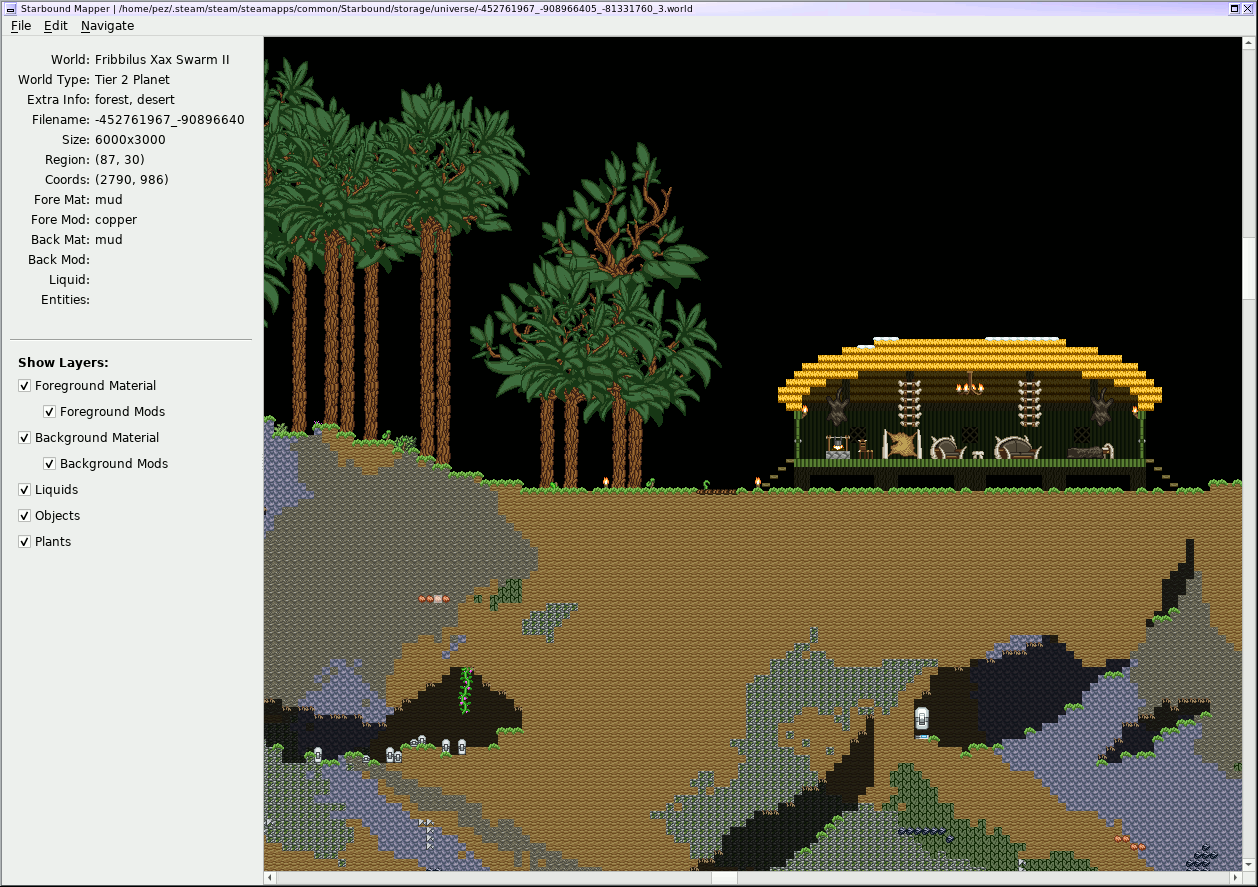
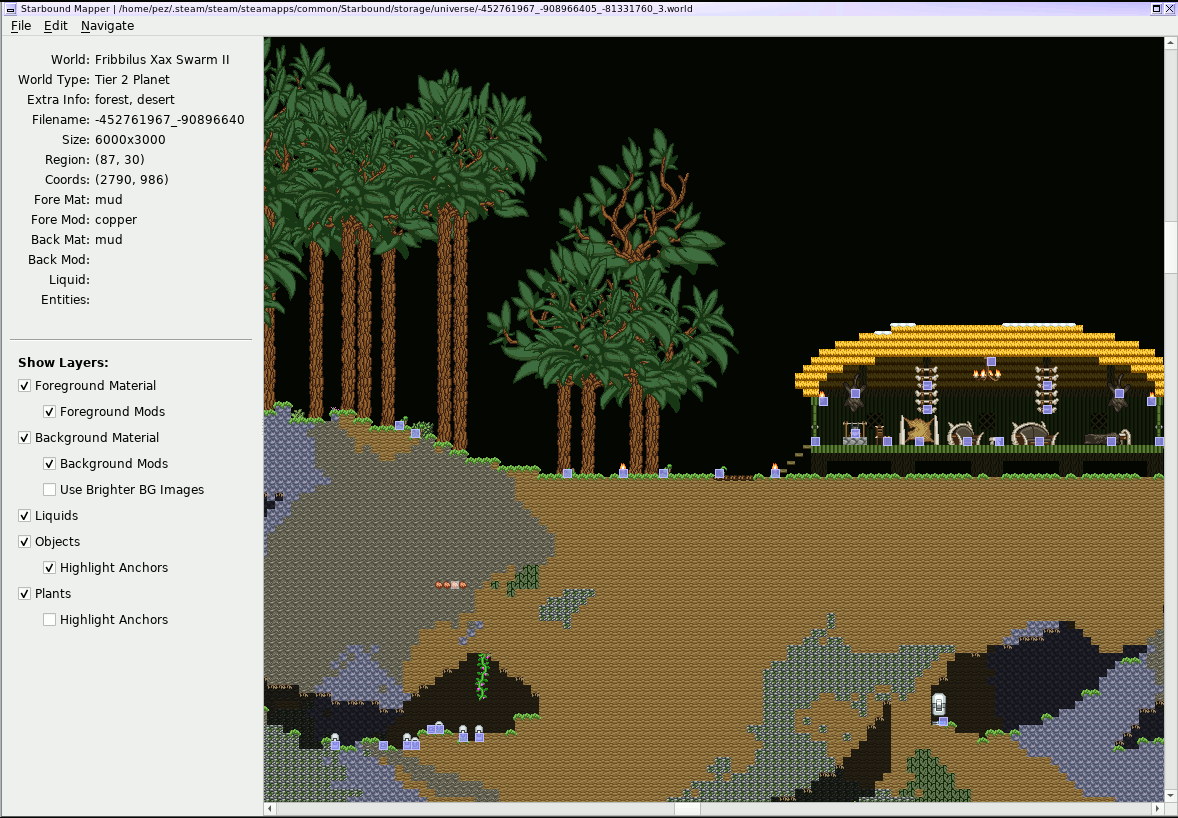
Highlight object/plant anchor points

diff --git a/pystarboundmap/gui.py b/pystarboundmap/gui.py
@@ -168,8 +168,19 @@ class GUITile(QtWidgets.QGraphicsRectItem):
     Hoverable area which the user can click on for info, etc.
     """
 
+    (BRUSH_NONE,
+        BRUSH_NORMAL,
+        BRUSH_PLANT,
+        BRUSH_OBJECT,
+        BRUSH_HOVER) = range(5)
+
     def __init__(self, parent, tile, x, y, region, gui_x, gui_y, layer_toggles):
         super().__init__()
+        self.hovered = False
+        self.highlight_objects = layer_toggles.object_anchors_toggle.isChecked()
+        self.highlight_plants = layer_toggles.plant_anchors_toggle.isChecked()
+        self.plants = []
+        self.objects = []
         self.parent = parent
         self.tile = tile
         self.x = x
@@ -178,13 +189,11 @@ class GUITile(QtWidgets.QGraphicsRectItem):
         self.gui_x = gui_x
         self.gui_y = gui_y
         self.setAcceptHoverEvents(True)
-        self.setBrush(QtGui.QBrush(QtGui.QColor(0, 0, 0, 0)))
-        self.setPen(QtGui.QPen(QtGui.QColor(0, 0, 0, 0)))
+        self.last_brush = GUITile.BRUSH_NONE
+        self.set_default_brush()
         self.setRect(0, 0, 8, 8)
         self.setPos(gui_x, gui_y)
         self.setZValue(Constants.z_overlay)
-        self.plants = []
-        self.objects = []
 
         # Convenience vars
         materials = self.parent.data.materials
@@ -279,6 +288,8 @@ class GUITile(QtWidgets.QGraphicsRectItem):
         objects
         """
         self.plants.append((desc, obj_list))
+        if len(self.plants) == 1:
+            self.set_default_brush()
 
     def add_object(self, obj_data, obj_name, obj_orientation, qpmi, entity):
         """
@@ -286,6 +297,8 @@ class GUITile(QtWidgets.QGraphicsRectItem):
         and QGraphicsPixmapItem
         """
         self.objects.append((obj_data, obj_name, obj_orientation, qpmi, entity))
+        if len(self.objects) == 1:
+            self.set_default_brush()
 
     def hoverEnterEvent(self, event=None):
         data_table = self.parent.mainwindow.data_table
@@ -293,6 +306,7 @@ class GUITile(QtWidgets.QGraphicsRectItem):
         matmods = self.parent.data.matmods
         liquids = self.parent.data.liquids
         self.parent.cur_hover = self
+        self.hovered = True
 
         data_table.set_region(self.region.rx, self.region.ry)
         data_table.set_tile(self.x, self.y)
@@ -356,12 +370,13 @@ class GUITile(QtWidgets.QGraphicsRectItem):
 
         # TODO: Might want to pre-brighten our images and swap 'em out.  Or
         # at least do so for objects, so we could highlight the whole thing.
+        self.last_brush = GUITile.BRUSH_HOVER
         self.setBrush(QtGui.QBrush(QtGui.QColor(255, 255, 255, 128)))
         self.setPen(QtGui.QPen(QtGui.QColor(0, 0, 0, 0)))
 
     def hoverLeaveEvent(self, event=None):
-        self.setBrush(QtGui.QBrush(QtGui.QColor(0, 0, 0, 0)))
-        self.setPen(QtGui.QPen(QtGui.QColor(0, 0, 0, 0)))
+        self.hovered = False
+        self.set_default_brush()
 
         # Restore object images
         for (obj_data, obj_name, obj_orientation, qpmi, _) in self.objects:
@@ -405,9 +420,40 @@ class GUITile(QtWidgets.QGraphicsRectItem):
                 image = self.parent.data.matmods[self.tile.background_mod].bgimage
             self.mod_background.setPixmap(image)
 
+    def set_default_brush(self):
+        """
+        Sets our default (non-hovered) brush/pen state.  Changing this is
+        expensive, which is why we're keeping track of the brush state with
+        `last_brush` rather than blindly updating.
+        """
+        if not self.hovered:
+            if self.highlight_objects and len(self.objects) > 0:
+                if self.last_brush != GUITile.BRUSH_OBJECT:
+                    self.setBrush(QtGui.QBrush(QtGui.QColor(150, 150, 255, 200)))
+                    self.setPen(QtGui.QPen(QtGui.QColor(190, 190, 255, 255)))
+                    self.last_brush = GUITile.BRUSH_OBJECT
+            elif self.highlight_plants and len(self.plants) > 0:
+                if self.last_brush != GUITile.BRUSH_PLANT:
+                    self.setBrush(QtGui.QBrush(QtGui.QColor(150, 255, 150, 200)))
+                    self.setPen(QtGui.QPen(QtGui.QColor(190, 255, 190, 255)))
+                    self.last_brush = GUITile.BRUSH_PLANT
+            else:
+                if self.last_brush != GUITile.BRUSH_NORMAL:
+                    self.setBrush(QtGui.QBrush(QtGui.QColor(0, 0, 0, 0)))
+                    self.setPen(QtGui.QPen(QtGui.QColor(0, 0, 0, 0)))
+                    self.last_brush = GUITile.BRUSH_NORMAL
+
     def toggle_liquids(self, checked):
         if self.liquid:
             self.liquid.setVisible(checked)
+
+    def toggle_object_anchors(self, checked):
+        self.highlight_objects = checked
+        self.set_default_brush()
+
+    def toggle_plant_anchors(self, checked):
+        self.highlight_plants = checked
+        self.set_default_brush()
 
 class GUIRegion(object):
     """
@@ -616,12 +662,26 @@ class GUIRegion(object):
         for obj in self.objects:
             obj.setVisible(checked)
 
+    def toggle_object_anchors(self, checked):
+        """
+        Toggle object anchors
+        """
+        for tile in self.tiles:
+            tile.toggle_object_anchors(checked)
+
     def toggle_plants(self, checked):
         """
         Toggle plants
         """
         for plant in self.plants:
             plant.setVisible(checked)
+
+    def toggle_plant_anchors(self, checked):
+        """
+        Toggle plant anchors
+        """
+        for tile in self.tiles:
+            tile.toggle_plant_anchors(checked)
 
 class TileInfoDialog(QtWidgets.QDialog):
     """
@@ -1166,12 +1226,26 @@ class MapScene(QtWidgets.QGraphicsScene):
         for region in self.loaded_regions:
             self.regions[region].toggle_objects(checked)
 
+    def toggle_object_anchors(self, checked):
+        """
+        Toggle object anchors
+        """
+        for region in self.loaded_regions:
+            self.regions[region].toggle_object_anchors(checked)
+
     def toggle_plants(self, checked):
         """
         Toggle plants
         """
         for region in self.loaded_regions:
             self.regions[region].toggle_plants(checked)
+
+    def toggle_plant_anchors(self, checked):
+        """
+        Toggle plant anchors
+        """
+        for region in self.loaded_regions:
+            self.regions[region].toggle_plant_anchors(checked)
 
 class MapArea(QtWidgets.QGraphicsView):
     """
@@ -1324,10 +1398,20 @@ class LayerToggles(QtWidgets.QWidget):
                 self.maingui.scene.toggle_liquids,
                 )
         self.objects_toggle = self.add_row('Objects',
-                self.maingui.scene.toggle_objects,
+                self.toggle_objects,
+                )
+        self.object_anchors_toggle = self.add_row('Highlight Anchors',
+                self.maingui.scene.toggle_object_anchors,
+                indent=True,
+                default=False,
                 )
         self.plants_toggle = self.add_row('Plants',
-                self.maingui.scene.toggle_plants,
+                self.toggle_plants,
+                )
+        self.plant_anchors_toggle = self.add_row('Highlight Anchors',
+                self.maingui.scene.toggle_plant_anchors,
+                indent=True,
+                default=False,
                 )
 
     def add_row(self, label_text, callback, indent=False, default=True):
@@ -1376,6 +1460,30 @@ class LayerToggles(QtWidgets.QWidget):
         else:
             self.current_back_mod_val = self.back_mod_toggle.isChecked()
             self.back_mod_toggle.setChecked(False)
+
+    def toggle_objects(self, checked):
+        """
+        Toggles objects
+        """
+        self.maingui.scene.toggle_objects(checked)
+        self.object_anchors_toggle.setEnabled(checked)
+        if checked:
+            self.object_anchors_toggle.setChecked(self.current_object_anchors_val)
+        else:
+            self.current_object_anchors_val = self.object_anchors_toggle.isChecked()
+            self.object_anchors_toggle.setChecked(False)
+
+    def toggle_plants(self, checked):
+        """
+        Toggles plants
+        """
+        self.maingui.scene.toggle_plants(checked)
+        self.plant_anchors_toggle.setEnabled(checked)
+        if checked:
+            self.plant_anchors_toggle.setChecked(self.current_plant_anchors_val)
+        else:
+            self.current_plant_anchors_val = self.plant_anchors_toggle.isChecked()
+            self.plant_anchors_toggle.setChecked(False)
 
 class RegionLoadingNotifier(QtWidgets.QWidget):
     """

diff --git a/README.md b/README.md
@@ -44,15 +44,20 @@ spawn point).  Once on the main screen, the functionality is pretty basic:
 [![Main Window](screenshots/mainwindow.png)](screenshots/mainwindow.png)
 
 The information about the currently-hovered tile will be shown on the lefthand
-side of the screen, which can be resized by dragging on the edge.  To get more
-detail about a tile, click on it to bring up a dialog with the extra details:
+side of the screen, which can be resized by dragging on the edge.  You can
+scroll using the scrollbars or by click-and-drag on the map itself.  The
+various layers can be toggled on/off, so if you wanted to check for holes in
+the background tiles of your home base, or something, that may be useful.
+There are also toggles to draw the background tiles much lighter, so they're
+easier to see, and toggles to show the "anchor" points for both objects and
+plants.  This is seen in the screenshot, where the object anchor points are
+in blue.  Plants will be in green.
+
+To get more detail about a tile, click on it to bring up a dialog with the
+extra details:
 
 [![Tile Info](screenshots/tileinfo.png)](screenshots/tileinfo.png)
 
-You can scroll using the scrollbars or by click-and-drag on the map itself.
-The various layers can be toggled on/off, so if you wanted to check this to
-find any holes in your base's background tile placement, that may be useful,
-etc.
 
 The "Navigate" menu will let you go directly to a specific coordinate, the
 spawn point, the level mech beacon (if one exists), the "current" player
@@ -120,6 +125,9 @@ TODO
    - on/off items (light sources), open/closed doors, etc
    - coloration of objects/tiles
    - "flip" parameter
+   - crop status
+     - Unrelated to rendering specifically, but we could probably report
+       on crop progress in the tile info dialog.
    - Randomize tiles w/ multiple options (dirt, etc, seems to be randomly
      assigned from four or five options.  The randomization is fixed-seed
      inside Starbound itself, and I highly doubt I'd be able to get it the
@@ -137,7 +145,6 @@ TODO
      and the only way to get it to run again would be to manually clear out the
      config file.
  - Should we save the layer toggle states between runs
- - Option to visually highlight where objects/plants are anchored
  - Read in codex files, to report the real name in container contents.  This
    will require actually lexing the config files in `read_config`, though,
    instead of just doing the poor-man's processing we're doing now.  The codex
